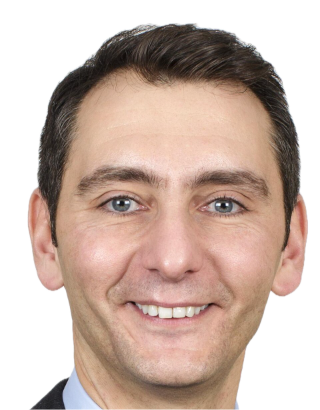
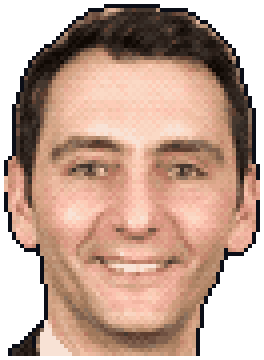
feat(assets): convert cutout portraits into crisp 16-bit pixel-art sprites

diff --git a/scripts/pixelize_portraits.py b/scripts/pixelize_portraits.py
@@ -1,0 +1,124 @@
+"""Convertit les portraits détourés en vrais sprites pixel-art 16-bit avec contour 1px."""
+
+from __future__ import annotations
+
+from pathlib import Path
+from PIL import Image, ImageEnhance
+
+ROOT = Path(__file__).resolve().parent.parent
+FIGHTERS_DIR = ROOT / "public" / "fighters"
+
+TARGETS = {
+    "melenchon": 86,
+    "lepen": 86,
+    "chikirou": 64,
+    "bompard": 64,
+    "panot": 64,
+    "aliot": 64,
+    "odoul": 64,
+    "jacobelli": 64,
+}
+
+# Matrice Bayer 4x4 normalisée [-0.5, +0.5] pour tramage 16-bit subtil
+BAYER_4X4 = [
+    [-0.46875, 0.03125, -0.34375, 0.15625],
+    [0.28125, -0.21875, 0.40625, -0.09375],
+    [-0.28125, 0.21875, -0.40625, 0.09375],
+    [0.46875, -0.03125, 0.34375, -0.15625],
+]
+
+OUTLINE_COLOR = (11, 14, 23, 255)
+
+
+def pixelize_sprite(path: Path, base_width: int) -> tuple[int, int]:
+    im = Image.open(path).convert("RGBA")
+    bbox = im.getbbox()
+    if bbox:
+        im = im.crop(bbox)
+
+    w, h = im.size
+    base_height = max(1, round(h * (base_width / w)))
+    small = im.resize((base_width, base_height), Image.Resampling.LANCZOS)
+
+    # Boost léger du contraste et de la saturation pour un rendu 16-bit net
+    rgb = small.convert("RGB")
+    rgb = ImageEnhance.Contrast(rgb).enhance(1.12)
+    rgb = ImageEnhance.Color(rgb).enhance(1.15)
+    small_rgba = rgb.convert("RGBA")
+    small_rgba.putalpha(small.getchannel("A"))
+
+    px = small_rgba.load()
+    assert px is not None
+
+    # Seuil alpha strict + léger tramage Bayer uniquement sur les pixels opaques
+    opaque_rgb = Image.new("RGB", (base_width, base_height), (11, 14, 23))
+    opx = opaque_rgb.load()
+    assert opx is not None
+    mask = [[False] * base_width for _ in range(base_height)]
+
+    for y in range(base_height):
+        for x in range(base_width):
+            r, g, b, a = px[x, y]
+            if a >= 135:
+                mask[y][x] = True
+                d = BAYER_4X4[y % 4][x % 4] * 14.0
+                opx[x, y] = (
+                    max(0, min(255, int(round(r + d)))),
+                    max(0, min(255, int(round(g + d)))),
+                    max(0, min(255, int(round(b + d)))),
+                )
+
+    # Quantification 16-bit (36 couleurs) sans bruit sur l'alpha
+    quantized = opaque_rgb.quantize(
+        colors=36,
+        method=Image.Quantize.MEDIANCUT,
+        dither=Image.Dither.NONE,
+    ).convert("RGBA")
+    qpx = quantized.load()
+    assert qpx is not None
+
+    # Reconstruction avec transparence nette + contour pixel-art 1px (#0B0E17)
+    canvas = Image.new("RGBA", (base_width + 2, base_height + 2), (0, 0, 0, 0))
+    cpx = canvas.load()
+    assert cpx is not None
+
+    for y in range(base_height):
+        for x in range(base_width):
+            if mask[y][x]:
+                r, g, b, _ = qpx[x, y]
+                cpx[x + 1, y + 1] = (r, g, b, 255)
+
+    for y in range(base_height):
+        for x in range(base_width):
+            if not mask[y][x]:
+                neighbors = (
+                    (x - 1, y),
+                    (x + 1, y),
+                    (x, y - 1),
+                    (x, y + 1),
+                )
+                if any(
+                    0 <= nx < base_width and 0 <= ny < base_height and mask[ny][nx]
+                    for nx, ny in neighbors
+                ):
+                    cpx[x + 1, y + 1] = OUTLINE_COLOR
+
+    # Agrandissement NEAREST 4x pour une grille de pixels ultra-nette
+    out_w, out_h = canvas.width * 4, canvas.height * 4
+    final = canvas.resize((out_w, out_h), Image.Resampling.NEAREST)
+    final.save(path, format="PNG", optimize=True)
+    return final.size
+
+
+def main() -> int:
+    for slug, base_w in TARGETS.items():
+        path = FIGHTERS_DIR / f"{slug}.png"
+        if not path.exists():
+            raise FileNotFoundError(f"Portrait manquant: {path}")
+        size = pixelize_sprite(path, base_w)
+        print(f"PIXELIZED {slug}.png -> {size[0]}x{size[1]} ({path.stat().st_size} bytes)")
+    return 0
+
+
+if __name__ == "__main__":
+    raise SystemExit(main())
